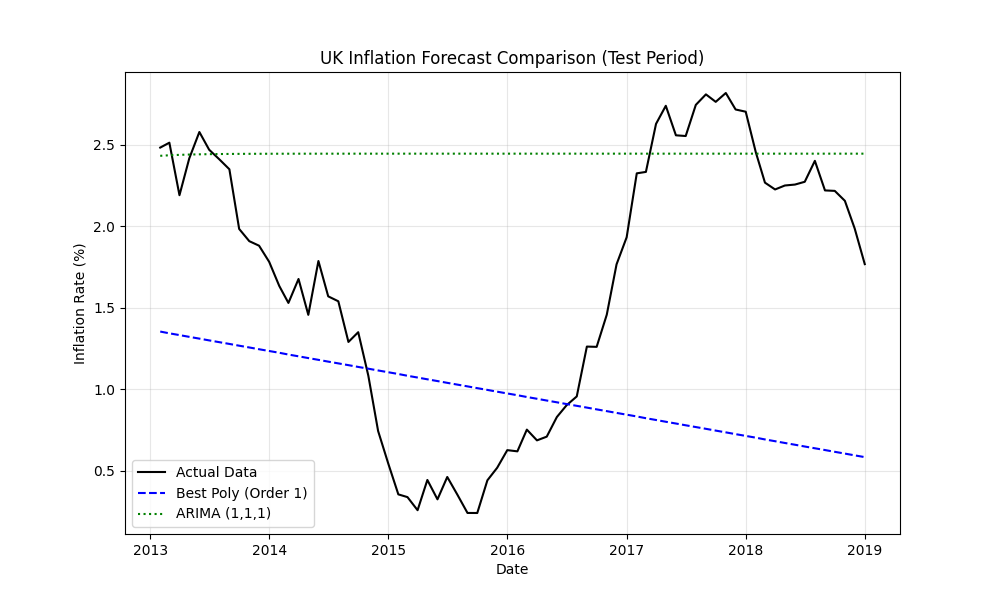
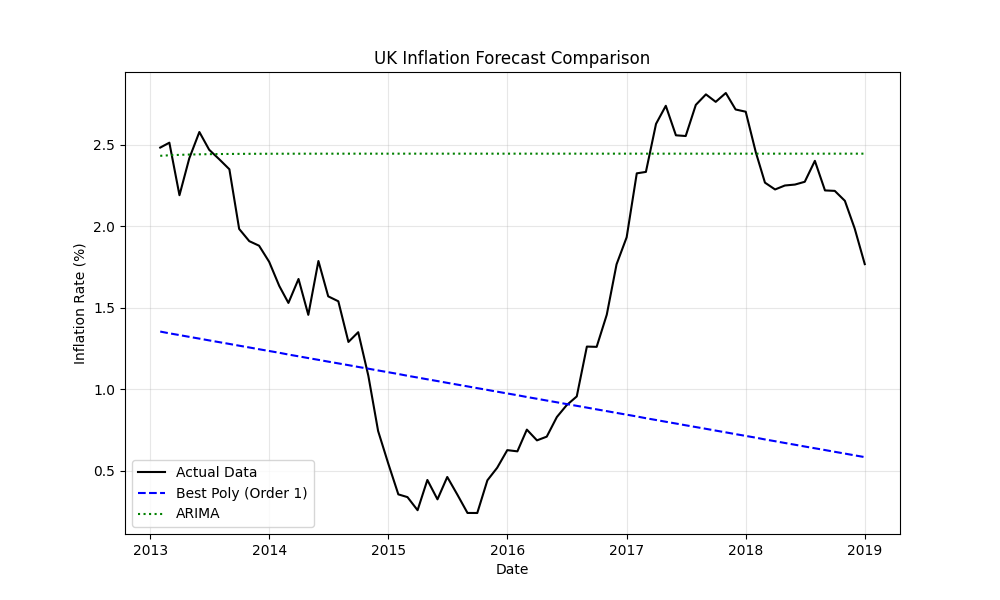
changed scope of project and fine-tuned it

Changed region(s): [[0.31, 0.09, 0.713, 0.12], [0.186, 0.84, 0.279, 0.87]]

diff --git a/clean and structure inflation data.py b/clean and structure inflation data.py
@@ -1,6 +1,6 @@
 import pandas as pd
 #load data and drop metadata rows
-raw = pd.read_excel("consumerpriceinflationdetailedreferencetables.xlsx", sheet_name="Table 37", header=None)
+raw = pd.read_excel("data\raw\consumerpriceinflationdetailedreferencetables.xlsx", sheet_name="Table 37", header=None)
 HEADER_ROW = 6
 raw = raw.iloc[HEADER_ROW:].reset_index(drop=True)
 

diff --git a/comparing inflation models.py b/comparing inflation models.py
@@ -66,7 +66,7 @@ def arima_workflow(train, test, order=(1,1,1)):
     return preds, mae
 
 # --- Execution ---
-train, test = load_and_split_data("inflation.csv")
+train, test = load_and_split_data("data\processed\inflation.csv")
 
 # Process Polynomials (1-9)
 poly_all_results, best_poly = polynomial_workflow(train, test)

diff --git a/main.py b/main.py
@@ -44,7 +44,7 @@ def train_and_forecast_arima(
     return forecast_df
 
 forecast_df = train_and_forecast_arima(
-    csv_path="inflation.csv",
+    csv_path="data\processed\inflation.csv",
     order=(1, 1, 1)
 )
 
